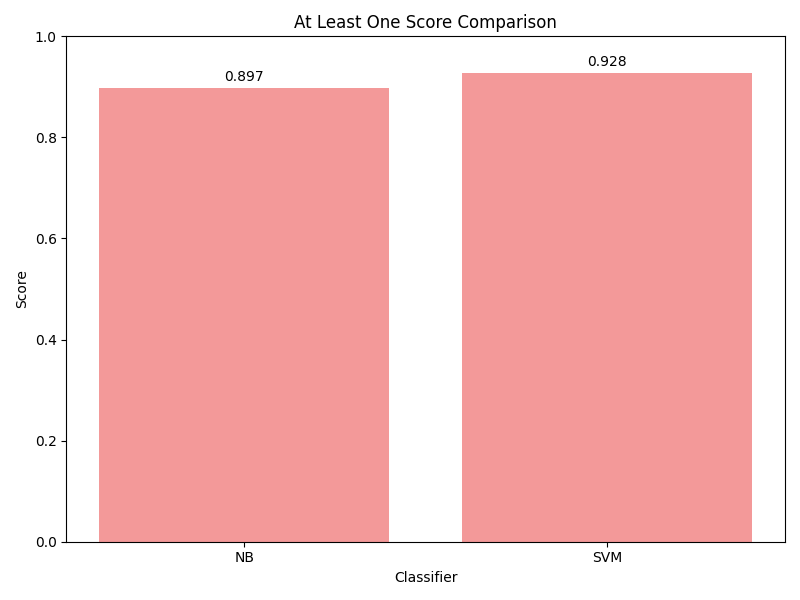
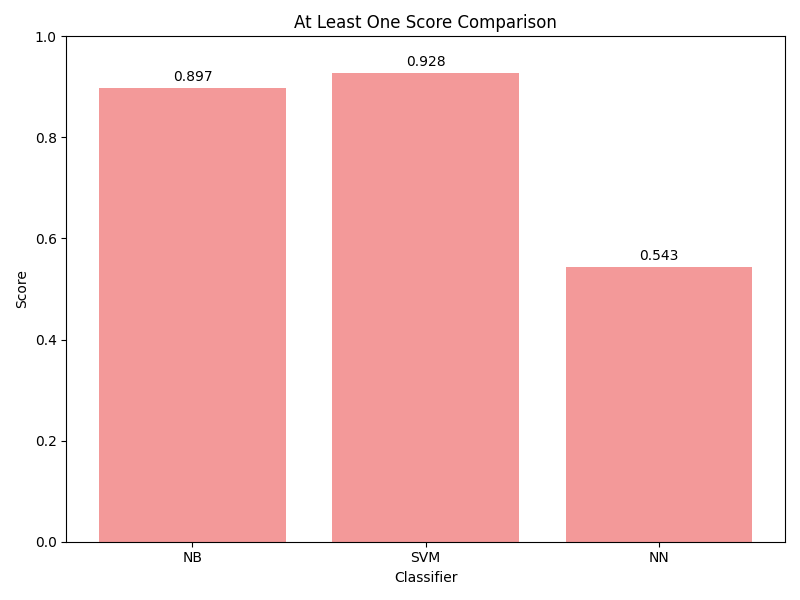
All 3 classifiers

diff --git a/post_analysis.py b/post_analysis.py
@@ -3,15 +3,39 @@ from preprocessing import get_data
 from naive_bayes import predict_multi_genres
 import pandas as pd
 import SVM
+from neural_network_updated import FromScratchNeuralNetwork
 import matplotlib.pyplot as plt
 import seaborn as sns
 import numpy as np
+import joblib
 
 df = pd.read_csv("songs.csv")
 X_train, X_test, y_train, y_test, songs_train, songs_test, X_val, y_val, songs_val = get_data()
 
-#for j in range(len(X_test)):
-#    print(f"{songs_test.iloc[j]} {predict_multi_genres(X_test[j])}, real genres: {df.loc[df['song'] == songs_test.iloc[j], 'genre'].values}")
+model_path = "trained_models/fromscratch_neural_network"
+
+# Load parts
+model_data = joblib.load(f"{model_path}_fromscratch_model.pkl")
+scaler = joblib.load(f"{model_path}_scaler.pkl")
+label_encoder = joblib.load(f"{model_path}_label_encoder.pkl")
+
+# Reconstruct the model
+nn = FromScratchNeuralNetwork(
+    architecture=model_data['architecture'],
+    learning_rate=model_data['learning_rate'],
+    dropout_rate=model_data['dropout_rate']
+)
+
+# Restore weights, biases, feature names
+nn.weights = model_data['weights']
+nn.biases = model_data['biases']
+nn.feature_columns = model_data['feature_columns']
+nn.scaler = scaler
+nn.label_encoder = label_encoder
+
+nn_preds = nn.predict_flexible(X_test, method='adaptive', threshold=0.3)
+
+svm_data = SVM.main()
 
 def get_real_genres_map():
     seen = set()
@@ -29,7 +53,6 @@ def get_real_genres_map():
 
 def score_classifier(classifier, score_type= 'standard'):
     real_genres_map = get_real_genres_map()
-    svm_data = SVM.main()
     score = 0
     for i in range(len(X_test)):
         song = songs_test.iloc[i]
@@ -38,7 +61,7 @@ def score_classifier(classifier, score_type= 'standard'):
         elif classifier == "SVM":
             pred_genres = svm_data[song]
         elif classifier == "NN":
-            pred_genres = None
+            pred_genres = nn_preds[i]
         real_genres = real_genres_map.get(song, set())
         if score_type == "standard":
             score += get_score_standard(pred_genres, real_genres, song)
@@ -124,9 +147,11 @@ def create_simple_visualization(classifiers):
 if __name__ == "__main__":
     print(f"Naive Bayes standard score: {score_classifier('NB')}")
     print(f"SVM standard score: {score_classifier('SVM')}")
+    print(f"NN standard score: {score_classifier('NN')}")
     print(f"Naive Bayes at least one score: {score_classifier('NB', 'at least one')}")
     print(f"SVM at least one score: {score_classifier('SVM', 'at least one')}")
+    print(f"NN at least one score: {score_classifier('NN', 'at least one')}")
     
-    classifiers = ['NB', 'SVM']
+    classifiers = ['NB', 'SVM', 'NN']
 
     create_simple_visualization(classifiers)

diff --git a/SVM.py b/SVM.py
@@ -66,7 +66,7 @@ def run_svm(report=False, return_data=True):
         
         if report == True:
             classification_metrics = classification_report(y_test, y_pred, target_names=unique_genres, output_dict=True, zero_division=0)
-            print(classification_metrics)
+            #print(classification_metrics)
             return results, pred_genres_dict, classification_metrics
         else:
             return results, pred_genres_dict
@@ -77,7 +77,7 @@ def main():
     return final_results[1] #pred_genres_dict
     
 if __name__ == "__main__":
-    print(main())
+    main()
     
 
 
